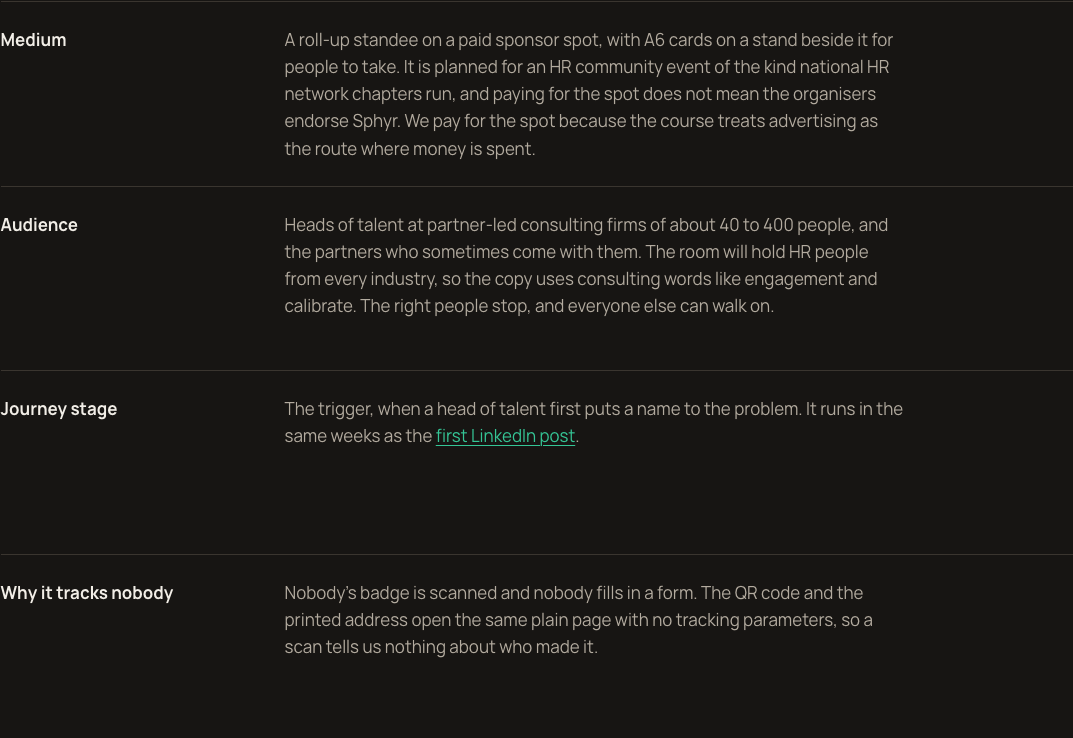
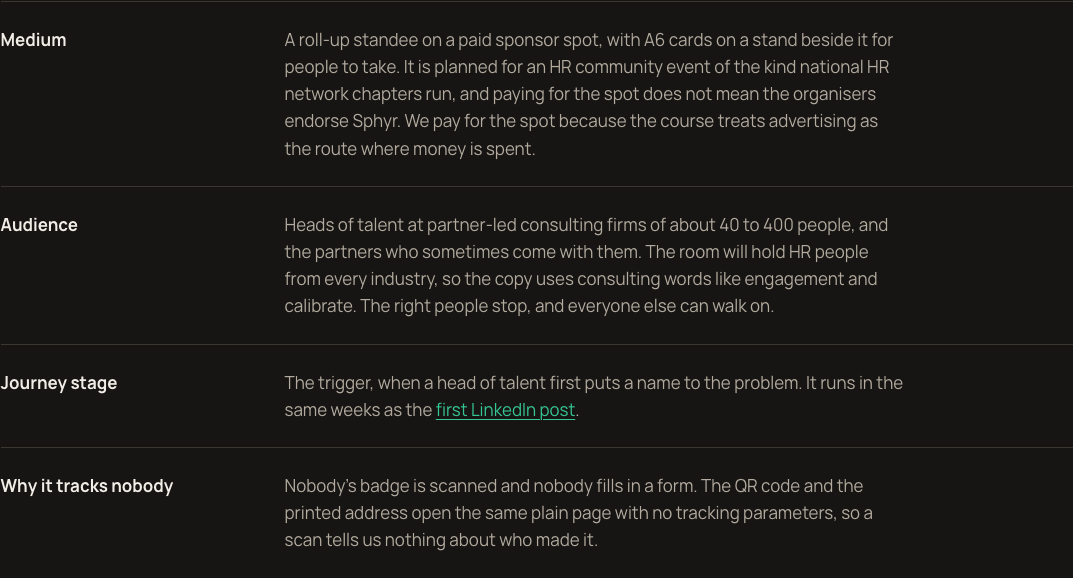
Rows: equal heights only for home scenes; ad rows and the after-you-sign list keep natural height

diff --git a/site/css/home.css b/site/css/home.css
@@ -31,6 +31,8 @@
 .trigger { margin-top: var(--s-5); font-size: var(--fs-lede); max-width: 60ch; }
 .scenes { margin-top: var(--s-7); }
 .scenes dd { color: var(--text); }
+/* The four scenes share the tallest row's height on desktop; their answers differ by one line at most. */
+@media (min-width: 641px) { .scenes { display: grid; grid-auto-rows: 1fr; } }
 .before-after { display: grid; grid-template-columns: 5fr 7fr; gap: var(--s-5) var(--s-8); margin-top: var(--s-8); }
 .before-after > div + div { border-left: 1px solid var(--border); padding-left: var(--s-8); }
 .before-after p { font-family: var(--font-display); font-weight: 500; font-size: clamp(1.375rem, 1.1rem + 0.9vw, 1.75rem); line-height: 1.25; max-width: 32ch; }

diff --git a/site/css/base.css b/site/css/base.css
@@ -256,8 +256,6 @@ a:hover { text-decoration-thickness: 2px; }
 .rows dt { font-weight: 700; }
 .rows dd { margin: 0; color: var(--text-muted); max-width: 60ch; }
 @media (max-width: 640px) { .rows > div { grid-template-columns: 1fr; gap: var(--s-2); } }
-/* Rows in one list share the tallest row's height on desktop, so 2-line and 3-line answers do not give uneven rows. */
-@media (min-width: 641px) { .rows { display: grid; grid-auto-rows: 1fr; } }
 
 /* Layout family 4: unequal pair (7/5), never three equal cards. */
 .pair { display: grid; grid-template-columns: 7fr 5fr; gap: var(--s-5); }
